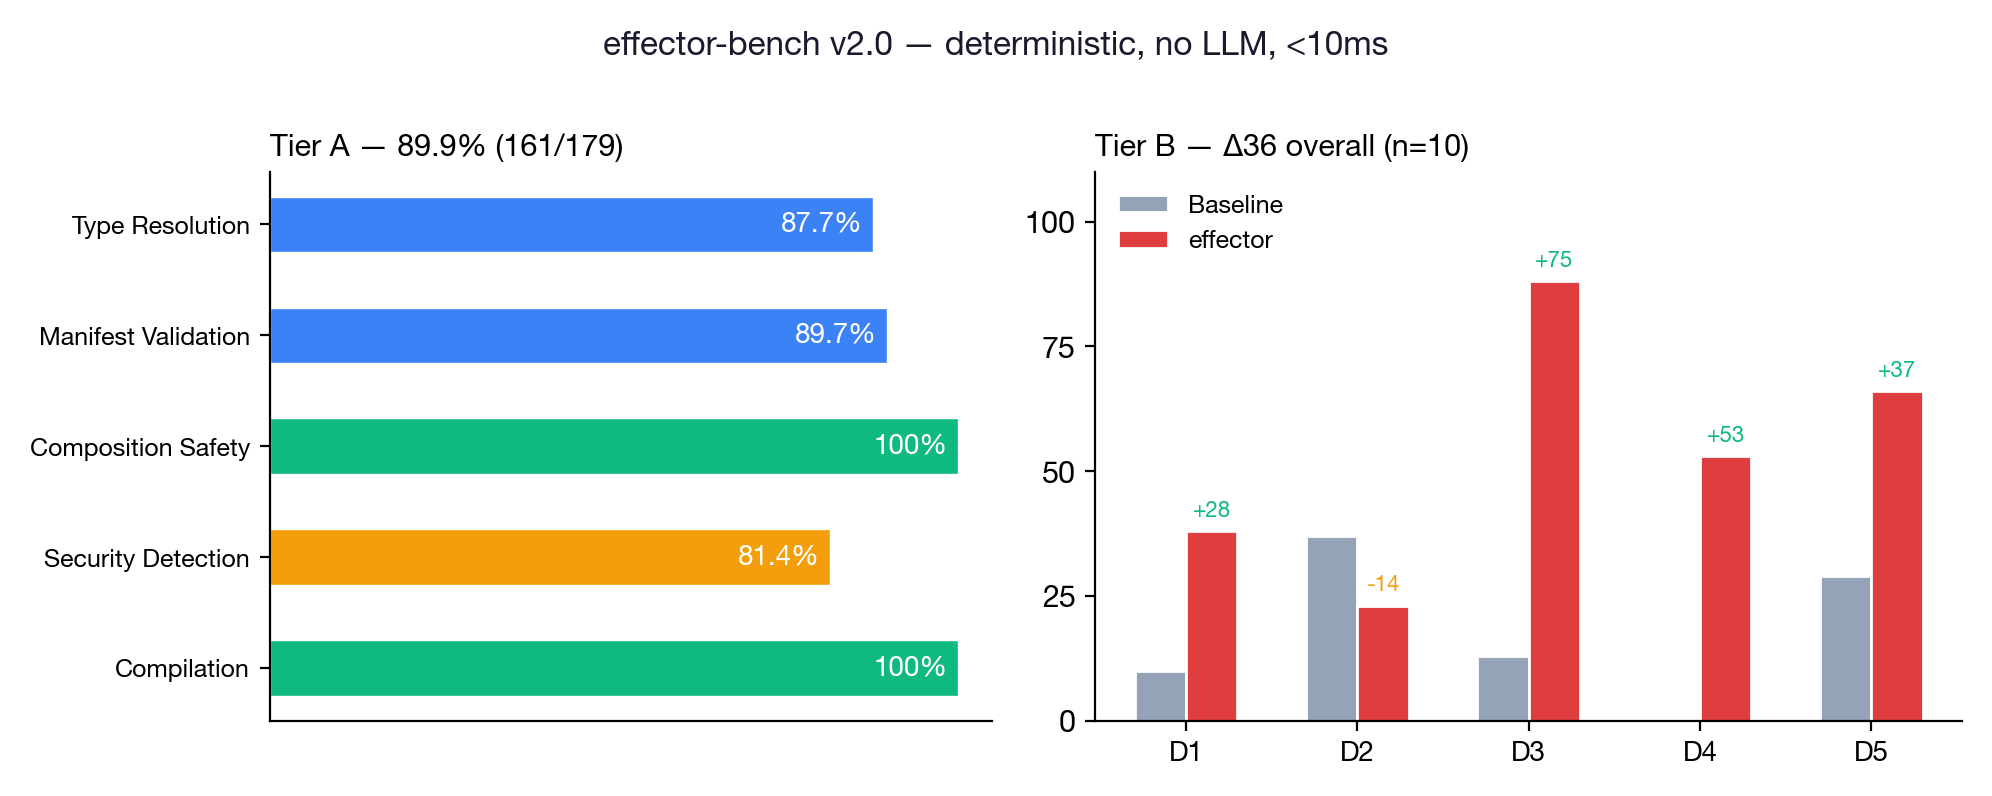
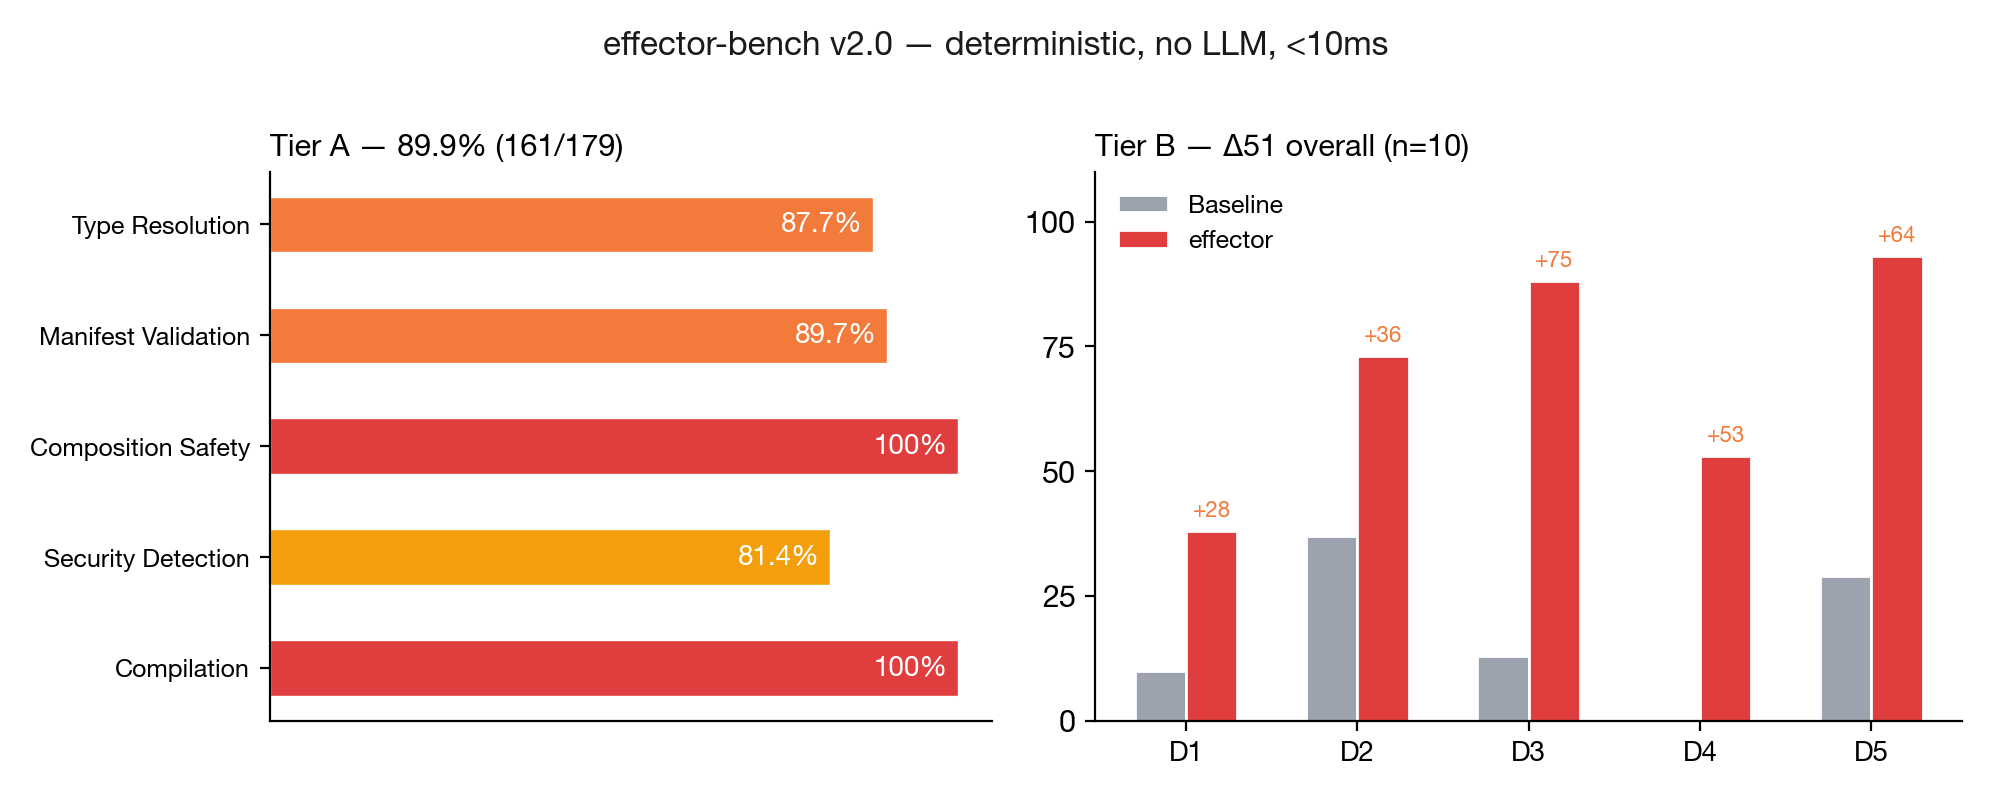
docs(profile): bench +51 Δ, 0 regressions; sync zh + overview figure
Made-with: Cursor

diff --git a/profile/README.md b/profile/README.md
@@ -126,7 +126,7 @@ The core thesis: AI agent capabilities need types. Today you chain two skills an
 </p>
 
 **Tier A** — 179 adversarial cases, 89.9% accuracy. 18 known gaps documented.
-**Tier B** — Controlled variable (n=10, grounded in [BFCL](https://gorilla.cs.berkeley.edu/leaderboard.html), [τ-bench](https://arxiv.org/abs/2406.12045), [ToolSword](https://arxiv.org/abs/2402.10753), [MCPToolBench++](https://arxiv.org/abs/2508.07575)). Δ+36 overall, 6 regressions documented. [Methodology](https://github.com/effectorHQ/effector-bench/blob/main/METHODOLOGY.md).
+**Tier B** — Controlled variable (n=10, grounded in [BFCL](https://gorilla.cs.berkeley.edu/leaderboard.html), [τ-bench](https://arxiv.org/abs/2406.12045), [ToolSword](https://arxiv.org/abs/2402.10753), [MCPToolBench++](https://arxiv.org/abs/2508.07575)). Δ+51 overall (+43 comparable, +64 differential), 0 regressions. [Methodology](https://github.com/effectorHQ/effector-bench/blob/main/METHODOLOGY.md).
 
 ---
 
